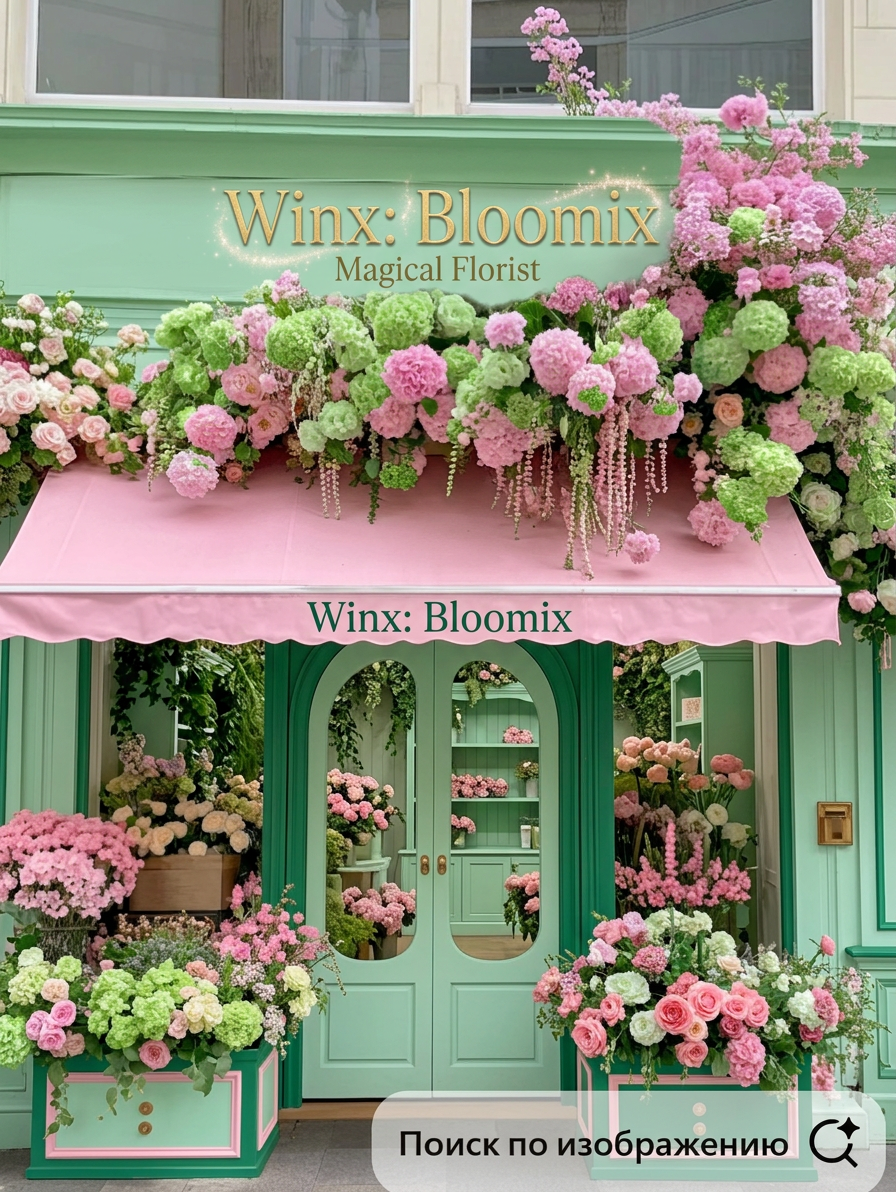
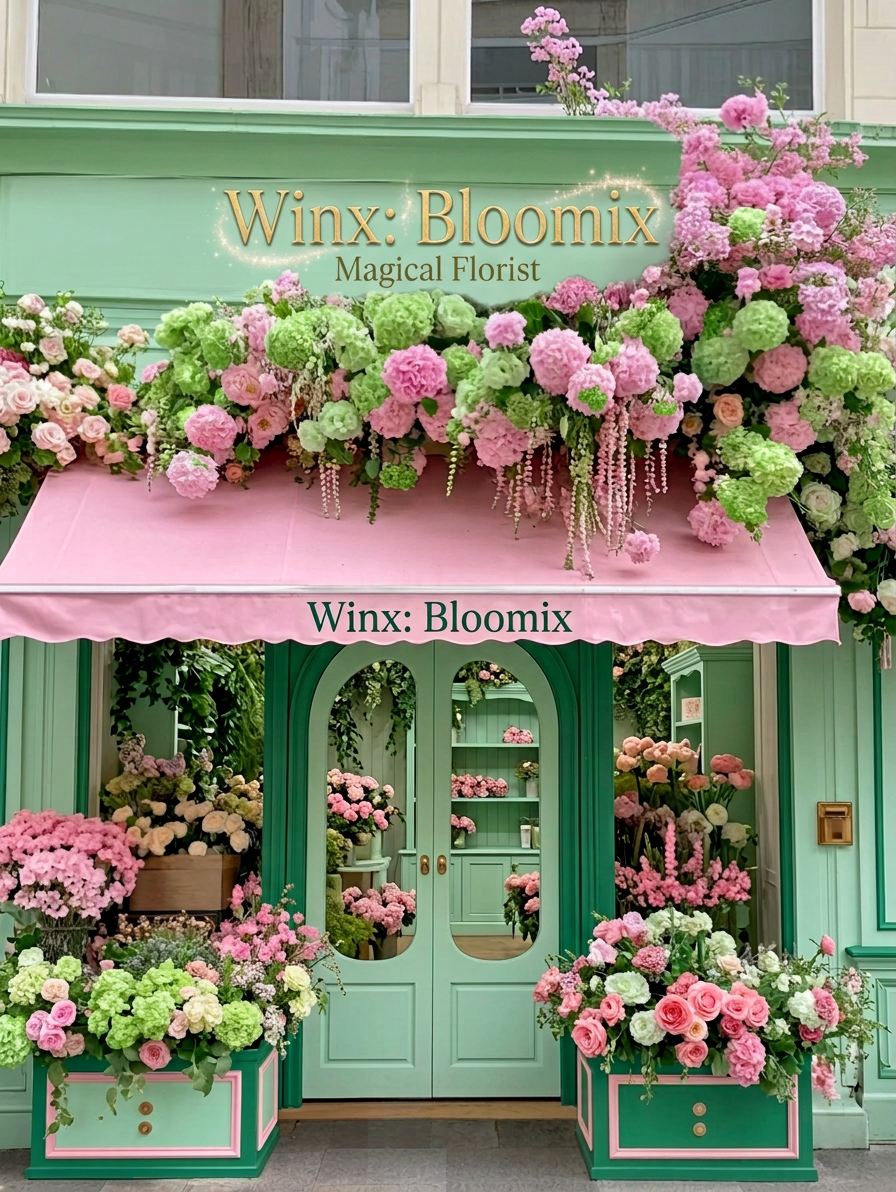
Complete Lab 2: Table layout and CSS flower emblems

diff --git a/index.html b/index.html
@@ -5,12 +5,60 @@
     <meta name="keywords" content="квітковий магазин, доставка квітів, букети, авторська флористика">
     <meta name="description" content="Онлайн-магазин  квітів та авторських букетів.">
     <title>Project of IS-41 group student Karina Prokoshina, flower shop "Winx: Bloomix"</title>
+
+    <link rel="stylesheet" href="style.css">
+
+    <style>
+        .delivery-table {
+            width: 100%;
+            max-width: 800px;
+            border-collapse: collapse;
+            margin: 20px 0;
+            font-family: sans-serif;
+            text-align: center;
+        }
+
+        .delivery-table td {
+            border: 1.5px solid #4a4a4a;
+            padding: 12px 10px;
+            font-size: 14px;
+            transition: background-color 0.3s ease, color 0.3s ease;
+        }
+
+        .delivery-table tr.row-first {
+            background-color: #fcc6dd;
+            color: #2b2b2b;
+        }
+
+        .delivery-table tr.row-second {
+            background-color: #bfddc4;
+            color: #203324;
+        }
+
+        .delivery-table tr.row-first:hover {
+            background-color: #bfddc4;
+            color: #203324;
+        }
+
+        .delivery-table tr.row-second:hover {
+            background-color: #fcc6dd;
+            color: #2b2b2b;
+        }
+
+        .delivery-table tr.row-third,
+        .delivery-table tr.row-bottom {
+            background-color: #ffffff;
+            color: #333333;
+        }
+    </style>
 </head>
 <body>
     <h2>Послуги студії флористики Winx: Bloomix</h2>
-    <p>Ми пропонуємо створення авторських букетів зі свіжозрізаних квітів, стильних квіткових боксів, кошиків та монобукетів з індивідуальним підбором палітри і швидкою адресною доставкою.</p>
-    <p>Наша команда здійснює комплексне флористичне оформлення свят і весіль, фітодизайн та озеленення інтер'єрів офісів і ресторанів, а також оформлення регулярної щотижневої квіткової підписки для бізнесу.</p>
-
+    <p>Ми пропонуємо створення авторських букетів зі свіжозрізаних квітів, 
+        стильних квіткових боксів, кошиків та монобукетів з індивідуальним підбором палітри і швидкою адресною доставкою.</p>
+    <p>Наша команда здійснює комплексне флористичне оформлення свят і весіль, 
+        фітодизайн та озеленення інтер'єрів офісів і ресторанів, а також оформлення 
+        регулярної щотижневої квіткової підписки для бізнесу.</p>
 
     <ul>
         <li>Півонії сортові</li>
@@ -25,7 +73,6 @@
         <li>Гіпсофіли різнокольорові</li>
     </ul>
 
-    <!-- Нумерований список: покроковий шлях від ідеї до вручення букета -->
     <ol>
         <li>Виникнення ідеї подарувати емоції та вибір улюблених квітів коханої.</li>
         <li>Оформлення замовлення на сайті з можливістю додати авторську листівку з теплими словами.</li>
@@ -34,13 +81,71 @@
         <li>Несподіване та зворушливе вручення букета коханій, наповнене щирими почуттями та посмішкою.</li>
     </ol>
 
-    <p>Історія квіткового простору Winx: Bloomix розпочалася у затишному куточку Подолу з великої пристрасті до живої природи та естетики. Спочатку це була невелика експериментальна студія, де ми створювали камерні композиції для друзів, підбираючи кожну стеблину вручну на світанку. Згодом щира увага до деталей, збереження природної свіжості квітів без зайвого пластикового пакування та прагнення дарувати не просто букети, а теплі емоції перетворили нашу майстерню на улюблене місце поціновувачів гармонійної, витонченої флористики.</p>
-
-    <img src="shop-photo.png" alt="Квіткова майстерня Winx: Bloomix" width="600">
+    <p>Історія квіткового простору Winx: Bloomix розпочалася у затишному куточку Подолу з великої пристрасті 
+        до живої природи та естетики. Спочатку це була невелика експериментальна студія, де ми створювали 
+        камерні композиції для друзів, підбираючи кожну стеблину вручну на світанку. Згодом щира увага до деталей, 
+        збереження природної свіжості квітів без зайвого пластикового пакування та прагнення дарувати не просто букети, 
+        а теплі емоції перетворили нашу майстерню на улюблене місце поціновувачів гармонійної, витонченої флористики.</p>
 
     <a href="https://uaserials.com/1597-klub-vinks-shkola-charivnyc-2004.html" target="_blank" rel="noopener noreferrer">
         <img src="shop-photo.png" alt="Квіткова майстерня Winx: Bloomix — натхненна магією Вінкс" width="600">
     </a>
 
+    <hr style="margin: 40px 0; border: 1px dashed #ccc;">
+
+    <section class="delivery-section">
+        <h2>Тарифи та зони доставки «Winx: Bloomix»</h2>
+        <table class="delivery-table">
+            <tr class="row-first">
+                <td rowspan="3">Експрес-доставка (Київ)</td>
+                <td>Правий берег</td>
+                <td rowspan="3">Нічна доставка (22:00 - 08:00)</td>
+                <td>Печерський р-н</td>
+            </tr>
+            <tr class="row-second">
+                <td>Лівий берег</td>
+                <td>Подільський р-н</td>
+            </tr>
+            <tr class="row-third">
+                <td>Передмістя (до 20 км)</td>
+                <td>Оболонський р-н</td>
+            </tr>
+            <tr class="row-bottom">
+                <td>Самовивіз зі студії</td>
+                <td colspan="2">Безкоштовна доставка для замовлень від 2500 грн</td>
+                <td>Кур'єр на авто</td>
+            </tr>
+        </table>
+    </section>
+
+    <section class="flower-logos">
+        <h2>Фірмові емблеми квіткарні</h2>
+        <div class="logos-wrapper">
+            <div class="logo-box">
+                <h3>position</h3>
+                <div class="flower-pos">
+                    <div class="f-base"></div>
+                    <div class="petal top"></div>
+                    <div class="petal bottom"></div>
+                    <div class="petal left"></div>
+                    <div class="petal right"></div>
+                    <div class="f-core"></div>
+                </div>
+            </div>
+
+            <div class="logo-box">
+                <h3>transform</h3>
+                <div class="flower-trans">
+                    <div class="f-base"></div>
+                    <div class="petal p-up"></div>
+                    <div class="petal p-down"></div>
+                    <div class="petal p-left"></div>
+                    <div class="petal p-right"></div>
+                    <div class="f-core"></div>
+                </div>
+            </div>
+        </div>
+    </section>
+    
 </body>
 </html>

diff --git a/style.css b/style.css
@@ -1,0 +1,124 @@
+
+.logos-wrapper {
+    display: flex;
+    gap: 50px;
+    align-items: center;
+    margin: 20px 0;
+}
+
+.logo-box {
+    text-align: center;
+}
+
+.flower-pos {
+    position: relative;
+    width: 220px;
+    height: 220px;
+    margin: 20px auto;
+}
+
+.flower-pos .f-base {
+    position: absolute;
+    width: 170px;
+    height: 170px;
+    top: 25px;
+    left: 25px;
+    background-color: #9a80c7;
+    border-radius: 35px;
+    z-index: 1;
+}
+
+.flower-pos .petal {
+    position: absolute;
+    width: 90px;
+    height: 90px;
+    background-color: #fcc6dd;
+    border-radius: 50%;
+    z-index: 2;
+}
+
+.flower-pos .petal.top {
+    top: 0;
+    left: 65px;
+}
+
+.flower-pos .petal.bottom {
+    bottom: 0;
+    left: 65px;
+}
+
+.flower-pos .petal.left {
+    left: 0;
+    top: 65px;
+}
+
+.flower-pos .petal.right {
+    right: 0;
+    top: 65px;
+}
+
+
+.flower-pos .f-core {
+    position: absolute;
+    width: 75px;
+    height: 75px;
+    top: 72.5px;
+    left: 72.5px;
+    background-color: #8c73b8;
+    border-radius: 18px;
+    z-index: 3;
+}
+
+
+.flower-trans {
+    position: relative;
+    width: 220px;
+    height: 220px;
+    margin: 20px auto;
+}
+
+.flower-trans .f-base {
+    width: 170px;
+    height: 170px;
+    background-color: #9a80c7;
+    border-radius: 35px;
+    transform: translate(25px, 25px);
+}
+
+.flower-trans .petal {
+    position: absolute;
+    width: 90px;
+    height: 90px;
+    background-color: #fcc6dd;
+    border-radius: 50%;
+    top: 65px;
+    left: 65px;
+}
+
+
+.flower-trans .p-up {
+    transform: translateY(-65px);
+}
+
+.flower-trans .p-down {
+    transform: translateY(65px);
+}
+
+.flower-trans .p-left {
+    transform: translateX(-65px);
+}
+
+.flower-trans .p-right {
+    transform: translateX(65px);
+}
+
+.flower-trans .f-core {
+    position: absolute;
+    width: 75px;
+    height: 75px;
+    top: 0;
+    left: 0;
+    background-color: #8c73b8;
+    border-radius: 18px;
+    transform: translate(72.5px, 72.5px);
+}
